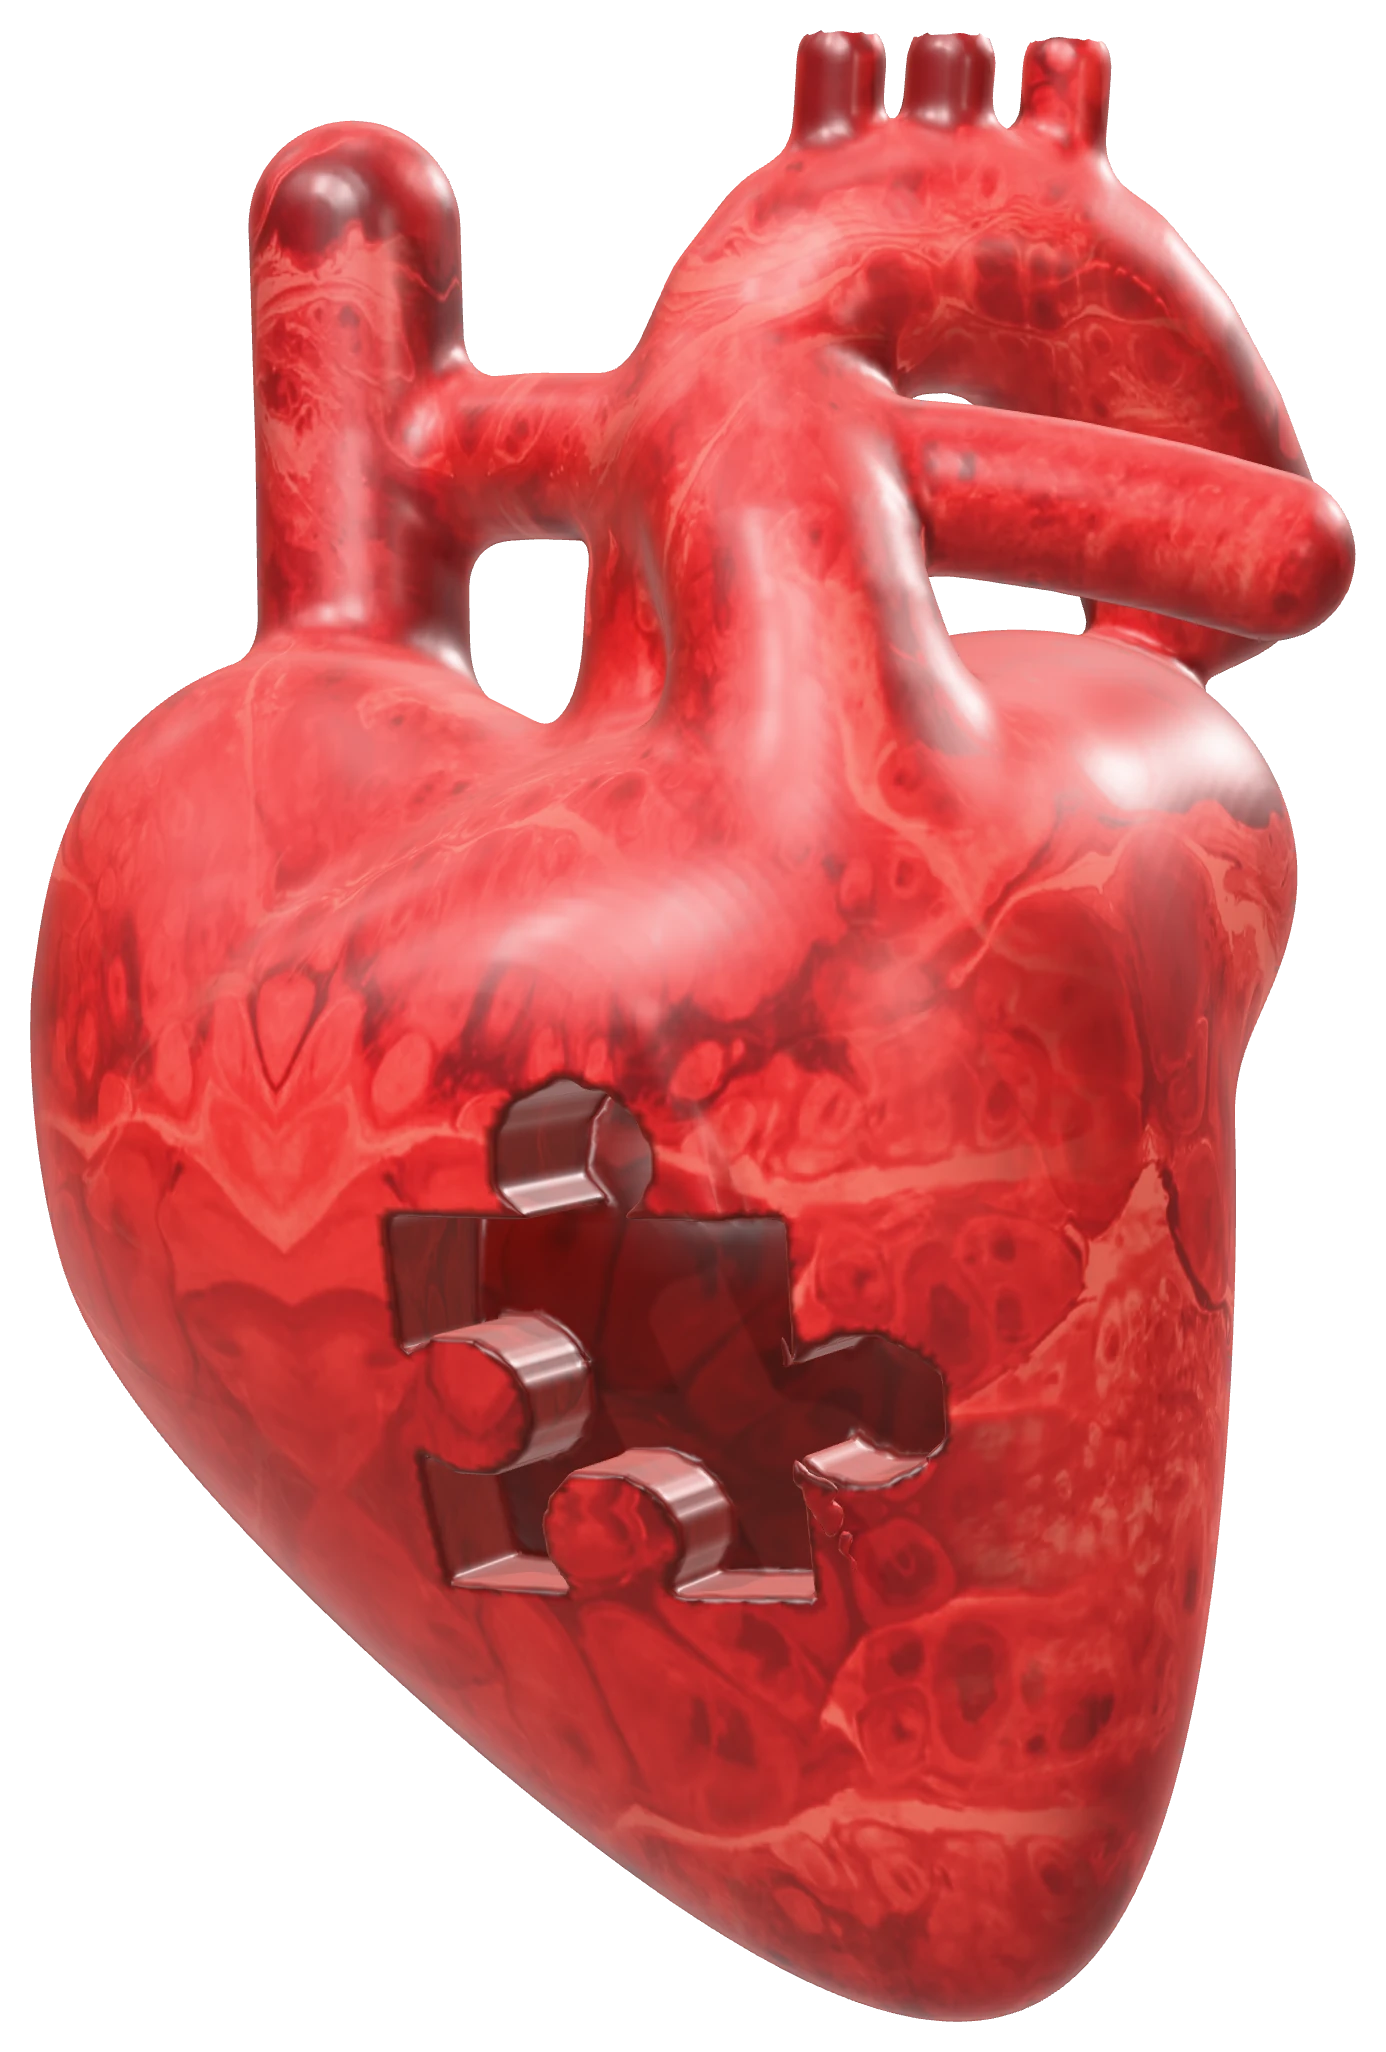
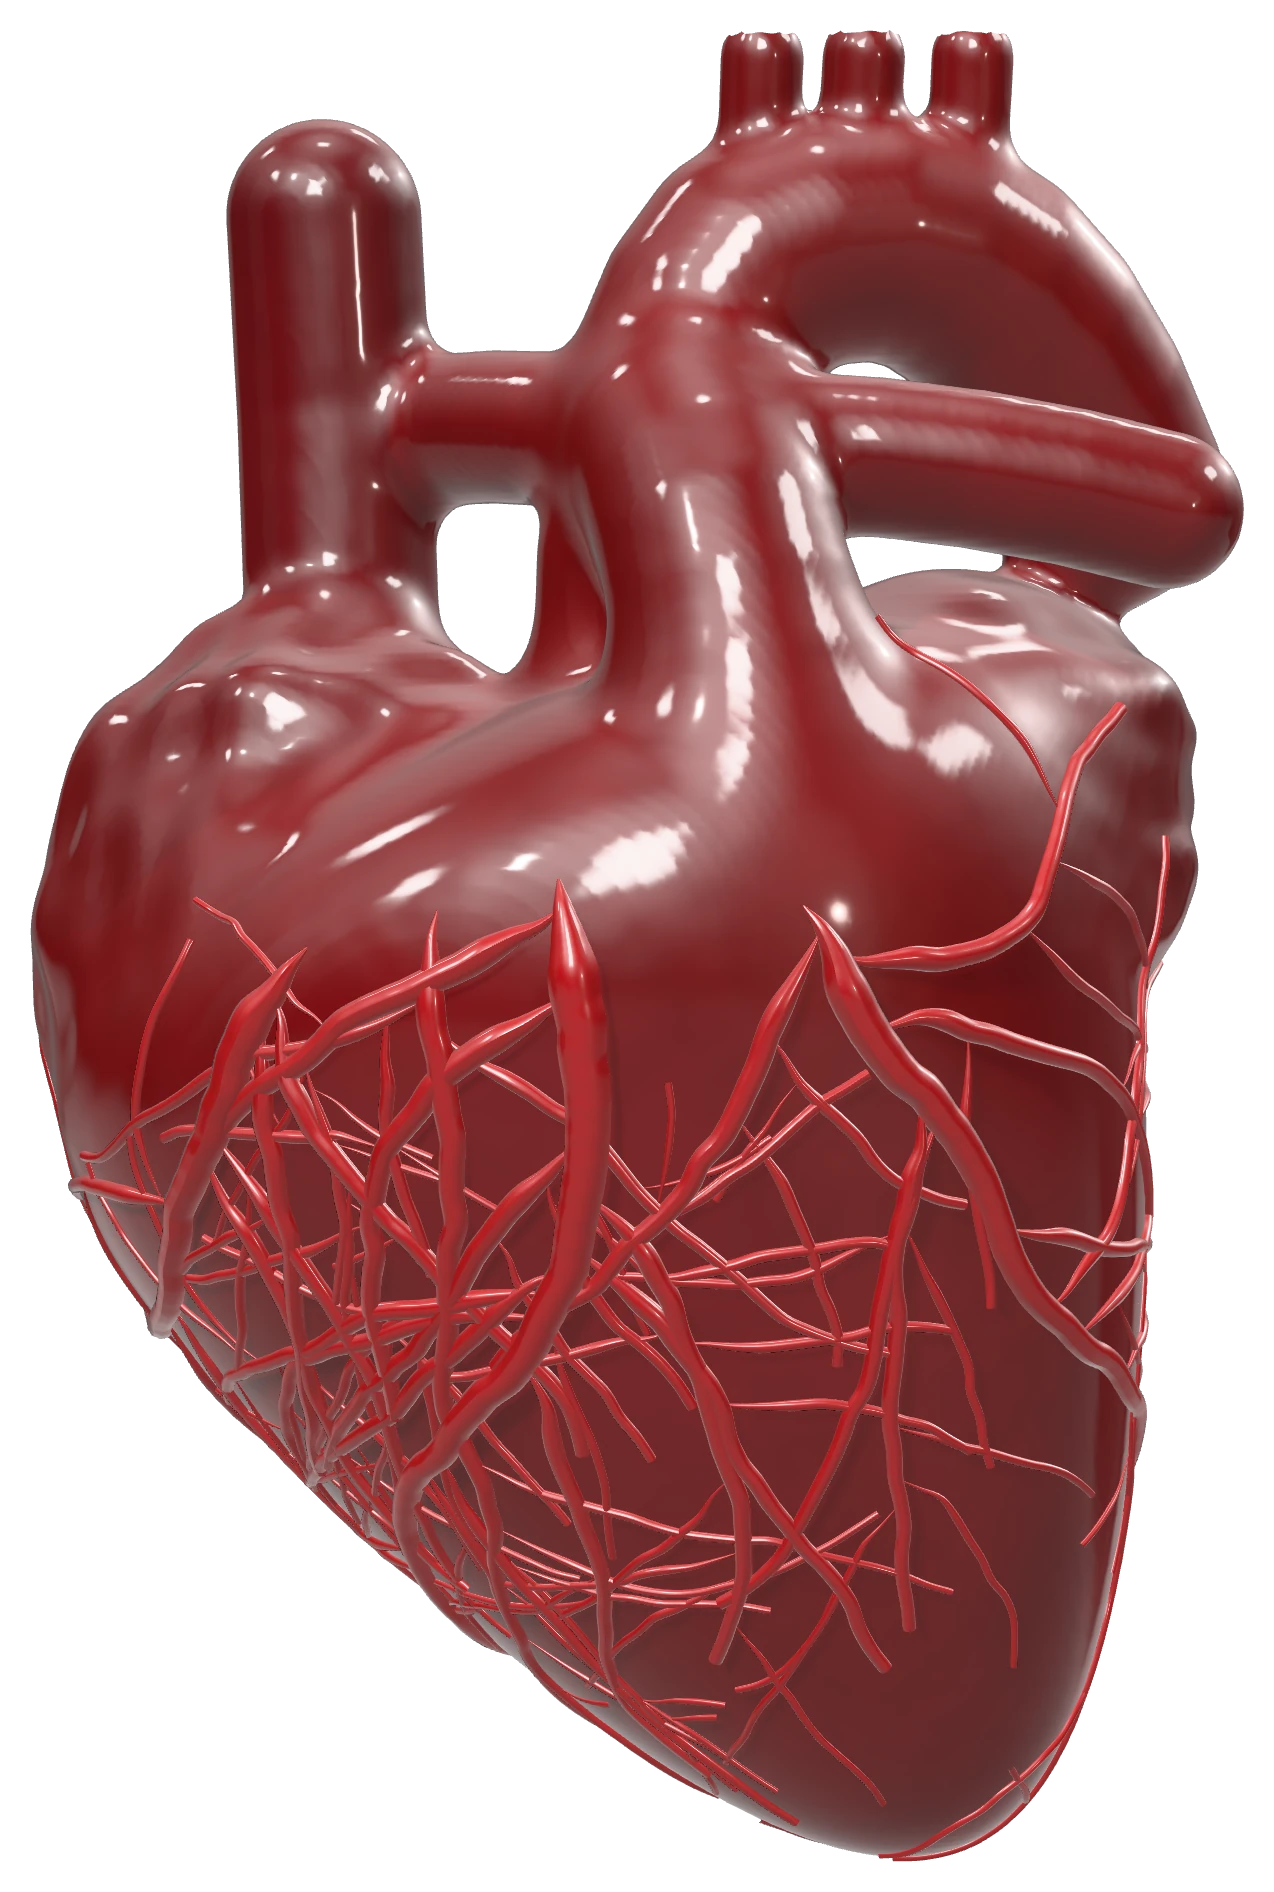
Hero: glossy anatomical heart with coronary vessels, heartbeat pulse
Claude-Session: https://claude.ai/code/session_01PkeobWmfrChtD7SqVdFZLv

diff --git a/index.html b/index.html
@@ -754,9 +754,9 @@ a{color:#4A5163}a:hover{color:#E63E3E}
 /* light puzzle hero */
 .leaplite::after{display:none!important}
 .leaplite{background:radial-gradient(ellipse 70% 60% at 72% 48%,#FFF1EE 0%,#FFFFFF 62%)}
-.pzl{position:absolute;z-index:1;right:max(16px,calc((100vw - 1240px)/2));top:50%;width:auto;height:min(76vh,640px);aspect-ratio:1386/2052;transform:translateY(-44%);right:max(60px,calc((100vw - 1100px)/2))}
+.pzl{position:absolute;z-index:1;right:max(16px,calc((100vw - 1240px)/2));top:50%;width:auto;height:min(76vh,640px);aspect-ratio:1274/1892;transform:translateY(-44%);right:max(60px,calc((100vw - 1100px)/2))}
 .pzl img{position:absolute;inset:0;width:100%;height:100%;object-fit:contain}
-.pzp{animation:pzfloat 6.5s cubic-bezier(.65,0,.35,1) infinite;transform-origin:42% 68%}
+.pzh{animation:pzbeat 1.6s ease-in-out infinite;transform-origin:50% 60%;filter:drop-shadow(0 40px 40px rgba(110,20,25,.22))}@keyframes pzbeat{0%,100%{transform:scale(1)}12%{transform:scale(1.025)}24%{transform:scale(1)}36%{transform:scale(1.014)}50%{transform:scale(1)}}
 @keyframes pzfloat{0%,22%{transform:none;filter:none}40%,62%{transform:translate(34%,7%) rotate(7deg) scale(1.06);filter:drop-shadow(18px 26px 22px rgba(90,20,20,.28))}80%,100%{transform:none;filter:none}}
 .leaplite .leaptop,.leaplite .leapbot{z-index:2}
 .leaplite .leaph{color:#1F2333}
@@ -978,7 +978,7 @@ body{font-size:15px}
 </div></header>
 
 <section id="top" class="leap leaplite">
-<div class="pzl" role="img" aria-label="A human heart with a puzzle-shaped piece that slides out and fits back into place"><img class="pzh" fetchpriority="high" decoding="async" src="images/hero-heart.webp" alt=""><img class="pzp" fetchpriority="high" decoding="async" src="images/hero-piece.webp" alt=""></div>
+<div class="pzl" role="img" aria-label="A glossy human heart with coronary vessels"><img class="pzh" fetchpriority="high" decoding="async" src="images/hero-heart.webp" alt=""></div>
 <div class="leaptop rise">
 <p class="leapeye">Arter.IQ · Proof, not promises</p>
 <h1 class="disp h1 leaph">Your heart deserves better questions. <span class="grad">And clearer answers.</span></h1>
